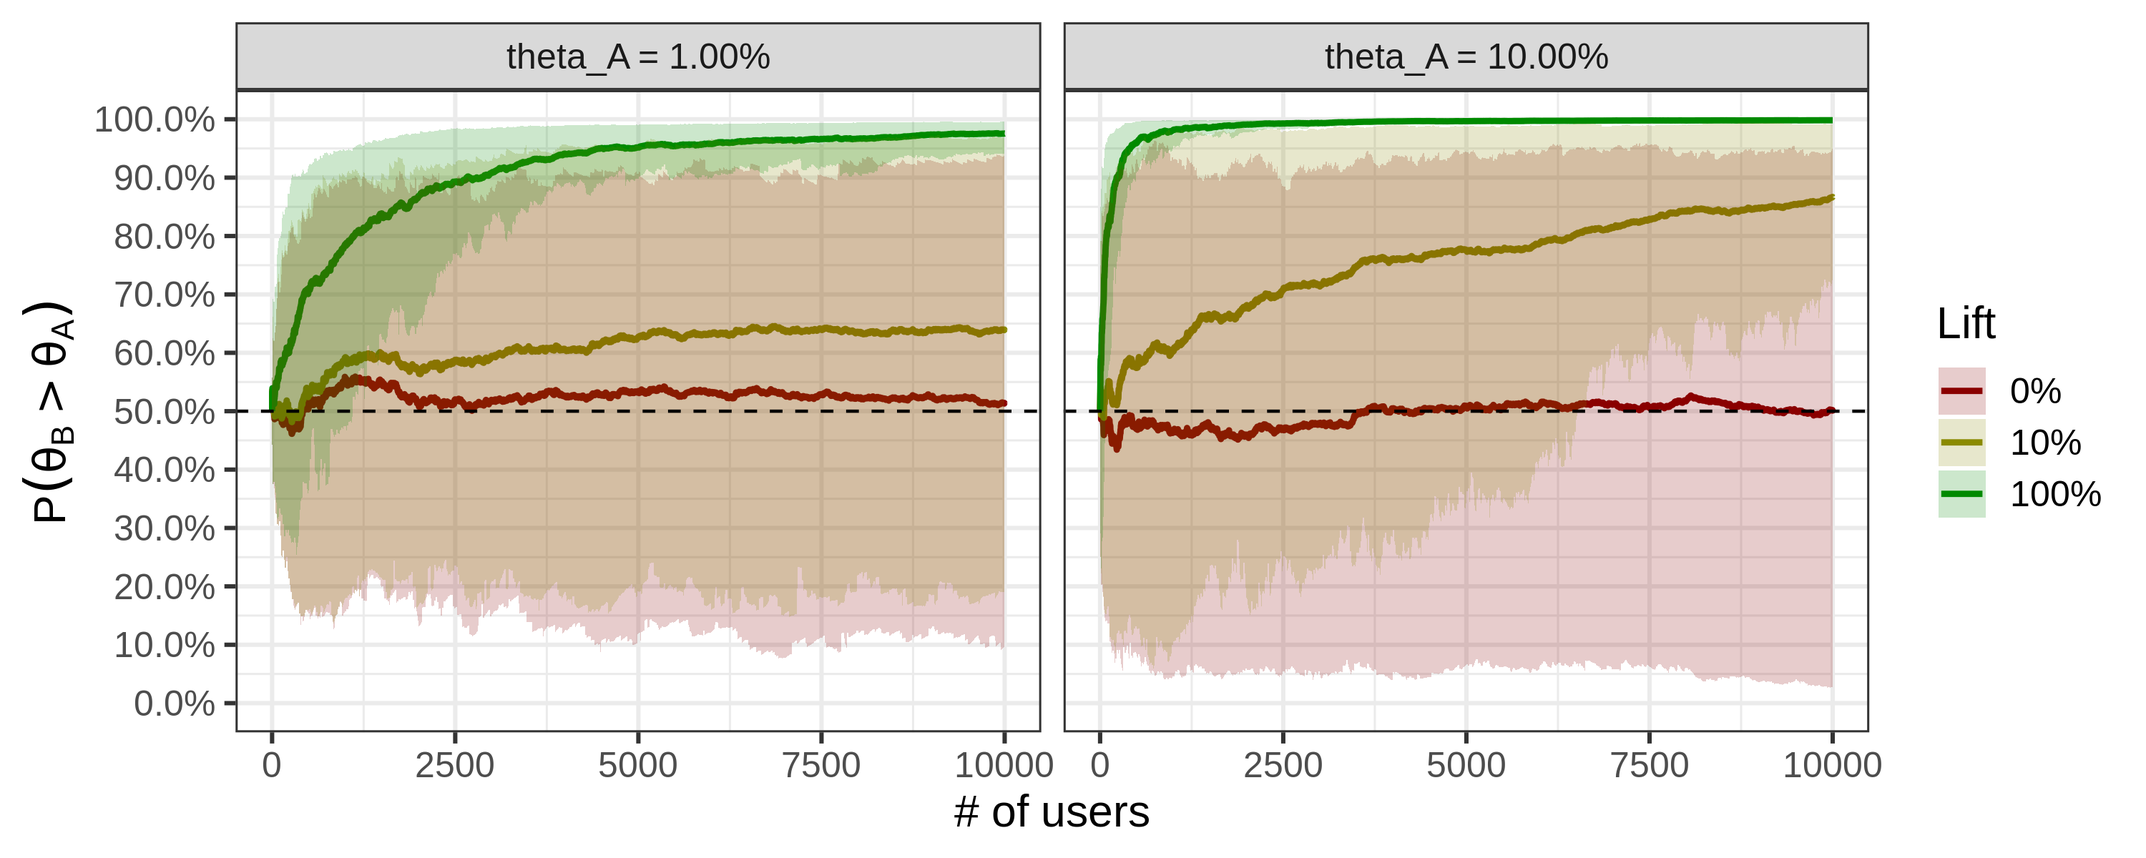
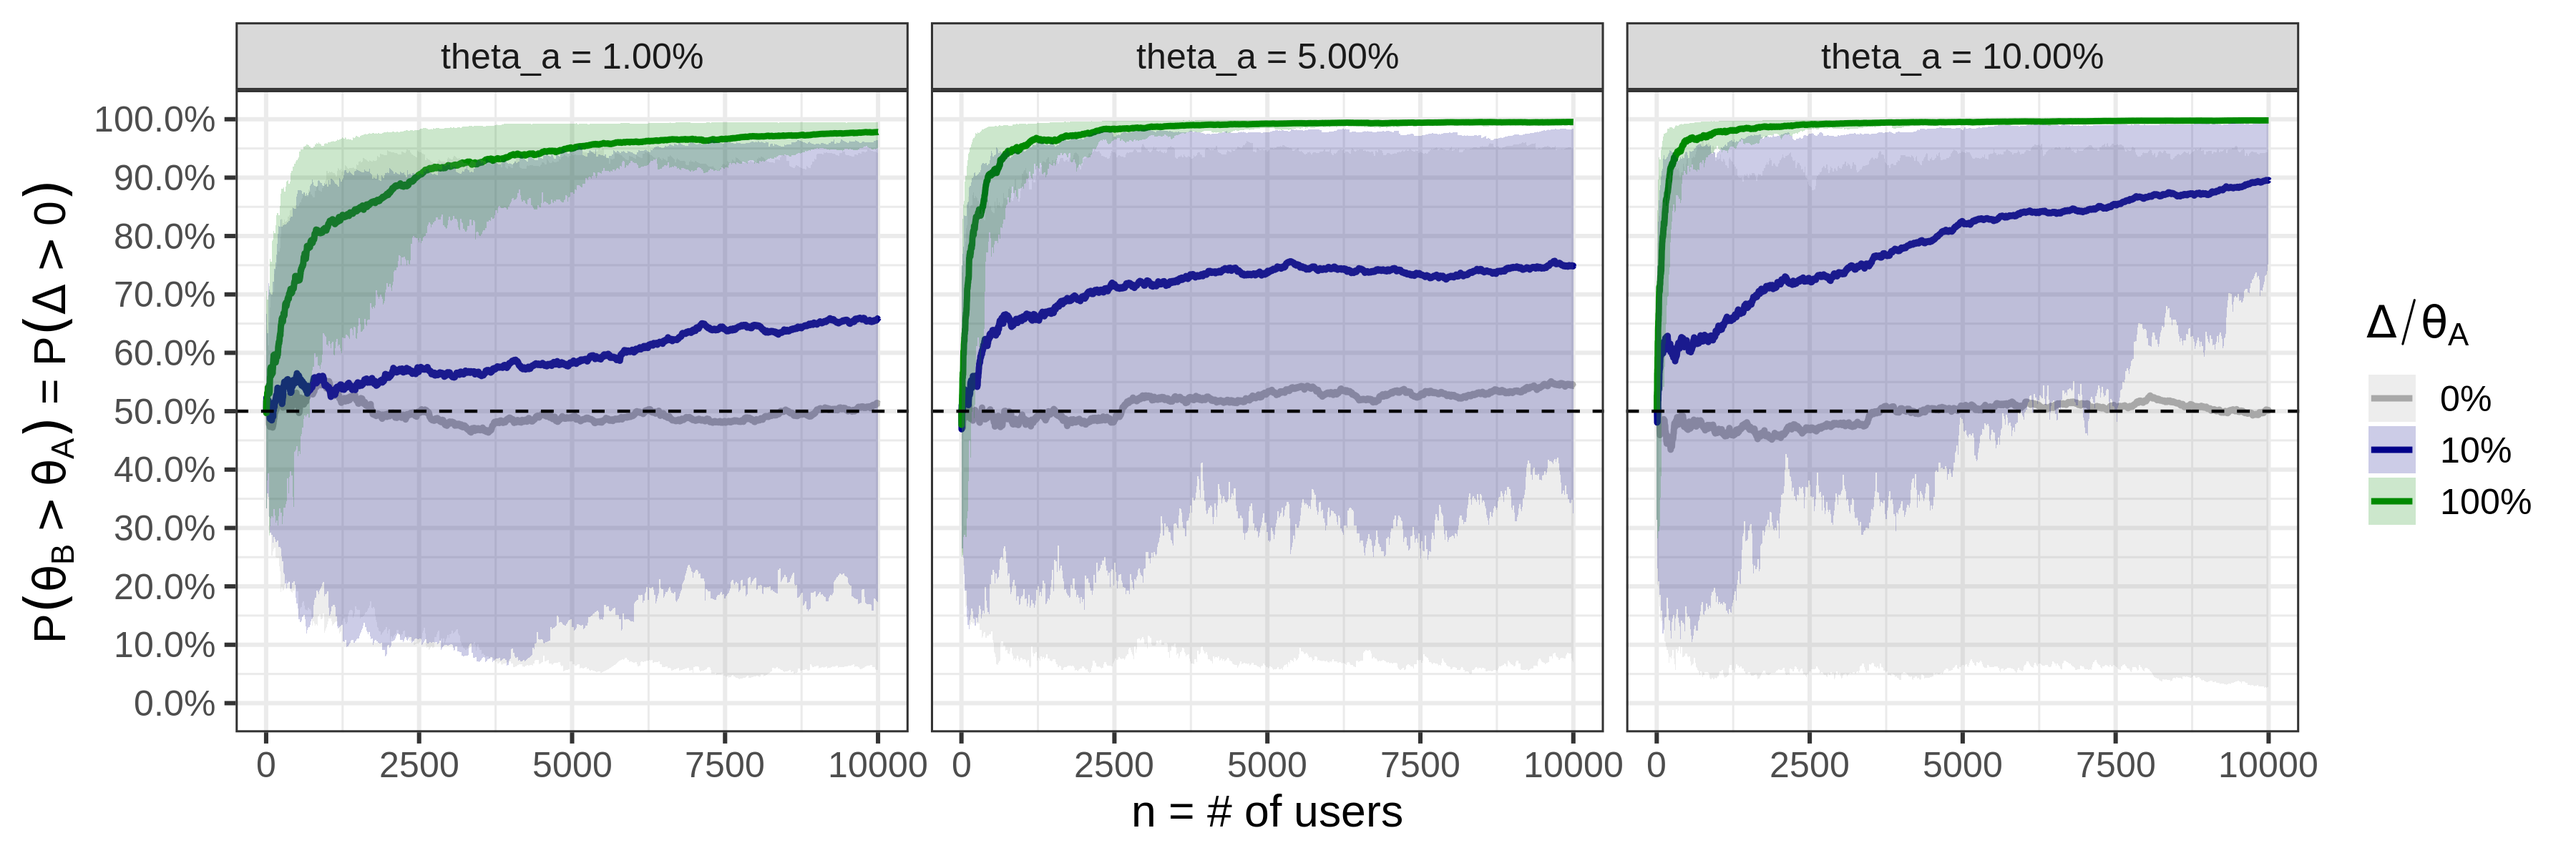
more progress on thompson-sampling

diff --git a/_layouts/post.html b/_layouts/post.html
@@ -1,5 +1,6 @@
 ---
 layout: default
+comments: true
 ---
 <article class="post h-entry" itemscope itemtype="http://schema.org/BlogPosting">
 

diff --git a/code/thompson-sampling/simulations.cpp b/code/thompson-sampling/simulations.cpp
@@ -18,7 +18,7 @@ List simulate(
   NumericVector p_B(users), aa(users), ba(users), ab(users), bb(users);
   aa[0] = alpha_a;
   ba[0] = beta_a;
-  ba[0] = alpha_b;
+  ab[0] = alpha_b;
   bb[0] = beta_b;
   bool is_positive_outcome = true;
   NumericVector u1 = runif(users), u2 = runif(users);
@@ -36,20 +36,20 @@ List simulate(
     }
     aa[i] = alpha_a;
     ba[i] = beta_a;
-    ba[i] = alpha_b;
+    ab[i] = alpha_b;
     bb[i] = beta_b;
   }
   
   return List::create(
+    Named("theta_a") = theta_a,
+    Named("theta_b") = theta_b,
     Named("universe") = universe,
     Named("nth_user") = seq(1, users),
     Named("b_is_better") = p_B,
     Named("alpha_a") = aa,
     Named("beta_a") = ba,
     Named("alpha_b") = ab,
-    Named("beta_b") = bb,
-    Named("theta_a") = theta_a,
-    Named("theta_b") = theta_b
+    Named("beta_b") = bb
   );
 }
 

diff --git a/_posts/2020-05-08-thompson-sampling.md b/_posts/2020-05-08-thompson-sampling.md
@@ -310,7 +310,7 @@ prob_B_is_better = function(alpha_a, beta_a, alpha_b, beta_b) {
 
 I've used the fact that the inner integral is just the
 [cumulative distribution
-function](https://en.wikipedia.org/wiki/Cumulative_distribution_function).
+function (CDF)](https://en.wikipedia.org/wiki/Cumulative_distribution_function).
 
 ## Simulations
 
@@ -326,94 +326,214 @@ of practical relevance:
 1. When to stop the experiment?
 1. How to estimate the lift $$\Delta = \theta_B - \theta_A$$?
 
-Intuitively, I want to stop as soon as I'm
-convinced by evidence that $$\Delta \neq 0$$.
+Well, I want to stop as soon as I'm
+convinced by evidence that $$\Delta$$ is probably not zero.
 
 More specifically,
 the knowledge distributions for $$\theta_A$$
 and $$\theta_B$$ imply a knowledge distribution
 for $$\Delta$$, say $$p_n(\Delta)$$.
-At any time, we can deduce
+Then, at any time, we can deduce
 [credible intervals](https://en.wikipedia.org/wiki/Credible_interval)
-for $$\Delta$$ from $$p_n(\Delta)$$.
-Here, I take the mean as the point estimate
-and the credible interval defined
-by the percentiles 10 and 90
-(i.e. a 80% credible interval)
-as the uncertainty estimate.
-Therefore, the answers for both questions
-can be merged into one single stopping rule like
+for $$\Delta$$.
+Here, I take the mean as the point estimate.
+For the uncertainty estimate, the credible intervals,
+the most common options are:
 
-- Stop as soon as the credible interval for $$\Delta$$
-doesn't contain 0 anymore, or
-- Stop as soon as the width of the credible interval
-for $$\Delta$$ becomes less than a threshold.
+- The so-called equal-tailed interval (ETI)
+is defined by the quantiles
+$$\alpha/2$$ and $$1-\alpha/2$$
+for a $$100\alpha\%$$ credible interval
+(e.g. if $$\alpha=80\%$$, then we use percentiles 10 and 90);
+- The
+[Highest Density Region (HDR)](https://www.webpages.uidaho.edu/~stevel/517/Computing%20and%20Graphing%20HDR.pdf),
+the subset of the support of a distribution
+that accumulates a specified probability mass,
+say $$\alpha$$,
+*and* have the highest possible values
+of the density function.
 
-On the other hand, we can assess the quality of such decisions
-by checking how often the timing matches
+The ETI equals the HDR in case the distribution is
+symmetric and unimodal.
+For skewed distributions, as is our case,
+the ETI may let values near the mode out of the interval
+while including values with lower associated density,
+and I want to avoid that property.
+The HDR certainly contains the mode,
+which is unique and very close to the mean in our case,
+so I'm going to use it.
 
-The scenarios we may encounter can be defined essentially
+In any case, the answers for questions 1 and 2
+can be merged into a single stopping rule like
+*"Stop as soon as the credible interval for $$\Delta$$
+doesn't contain 0"*,
+or
+*"Stop as soon as the width of the credible interval
+for $$\Delta$$ becomes less than a threshold"*,
+or a combination of these.
+
+The scenarios we may face can be defined essentially
 in terms of $$\theta$$.
 The cross product of
 
-1. The baseline rate of positive outcomes $$\theta_A$$
-   being 1% or 10%; and
-1. The relative lift $$\Delta/\theta_A$$
-   being 0%, 5% or 10%.
+- The baseline rate of positive outcomes $$\theta_A$$
+  being 1%, 5% or 10%; and
+- The relative lift $$\Delta/\theta_A$$
+  being 0%, 10% or 100%.
 
-amounts to 6 scenarios and these are the ones
+amounts to 9 scenarios and these are the ones
 I consider here.
 
-Now to the simulation. The
+**Now to the simulation.**
+First, I want to understand how
+$$P(\Delta > 0) = P(\theta_B > \theta_A)$$
+behaves under different conditions.
+The
 [generative model](https://en.wikipedia.org/wiki/Generative_model)
-of our problem looks like this:
+for user outcomes and the algorithm
+we devised in the previous section put together
+look like the following.
+We start with uniform priors, i.e.
+$$\alpha_A = \beta_A = \alpha_B = \beta_B = 1$$.
+Then, for each new user $$n \geq 1$$:
 
-- Start with uniform priors, i.e.
-$$\alpha_A = \beta_A = \alpha_B = \beta_B = 1$$;
-- For each new user $$n \geq 1$$:
-  - **Thompson Sampling**: Compute
-    $$P(\theta_B > \theta_A)$$
-    and sample the variation based on it;
-  - Sample the (binary) user outcome using
-    $$\theta_A$$ or $$\theta_B$$,
-    depending on the previous step,
-    and update the hyper-parameters,
-    increasing $$\alpha$$ or $$\beta$$ in 1
-    depending on whether the experience was
-    positive or negative, respectively.
+1. *Thompson Sampling*: Compute
+   $$P(\theta_B > \theta_A)$$
+   and sample the variation based on it;
+1. Sample the (binary) user outcome using
+   $$\theta_A$$ or $$\theta_B$$,
+   depending on the previous step;
+1. Update the hyper-parameters of the sampled variation,
+   increasing $$\alpha$$ or $$\beta$$ in 1
+   depending on whether the experience was
+   positive or negative, respectively.
 
 Notice that I'm updating the distributions
 right after observing the outcome
 of each user. In practice, that may not
 be feasible. Updates could be executed
-after counting results for batches of users.
+after counting results from batches of users.
 
 I've used a total of 10K users and repeated this whole
-process 100 times, resulting in 1M simulated user experiences.
-For each scenario we can now visualize
-the average (dense line) + 80% confidence intervals (shadows)
-of the $$P(\theta_B > \theta_A)$$
+process 100 times, resulting in 1M simulated user experiences
+for each scenario.
+Now, we can visualize, say,
+the average (dense line) + 80% ETI (shadows)
+of the $$P(\Delta > 0)$$
 values across the 100 histories as a function
-of the number of users, $$n$$.
+of the number of users, $$n$$,
+for each scenario.
 
-![]({{site.baseurl}}/images/thompson-sampling/simple-scenarios.png)
-
-First few notes:
-
-- For the same relative lift, it's easier to
-detect an existing difference if the rates
-are bigger. That's just because the absolute value
-of the lift is also bigger in this case.
-- To compare absolute lifts
-
-Amunsingly, this is a
+> Amusingly, this is a
 [frequentist](https://en.wikipedia.org/wiki/Probability_interpretations#Frequentism)
 analysis of subjective probabilities.
-These are not bayesian estimates.
-We're assessing in a simple manner how our
+Note that these are not bayesian estimates.
+The uncertainty measured by these intervals
+are with respect to the unobserved, alternative histories
+that are possible according to our generative model.
+I want to assess in a simple manner how my
 perception of the reality at a certain point
 in time may deviate from the actual
 underlying reality itself.
+In a minute, we're going to take a closer look
+into the knowledge distribution for $$\Delta$$,
+which is the only thing we have in practice
+to both (1) measure uncertainty and (2) make decisions.
+
+![]({{site.baseurl}}/images/thompson-sampling/simple-scenarios.png)
+
+- As expected, the greater the lift the easier to catch
+the difference sooner;
+- For a fixed (relative) lift, it's easier to
+detect an existing difference if the rates
+are bigger. That's just because the absolute value
+of the lift, $$\theta_B - \theta_A$$, is also bigger in such cases.
+- Under no lift, it looks like the $$P(\theta_B > \theta_A)$$
+time series may drift up and down with no signs of convergence.
+Notice the wide confidence intervals irrespectively of $$\theta_A$$ and $$n$$.
+- Both the green curve in the first pane and
+the blue curve in the third pane correspond to $$\Delta = 0.01$$:
+notice the difference in how easy it is to catch the lift.
+
+**Now let's move to the distribution of $$\Delta$$**.
+Since $$\Delta = \theta_B - \theta_A$$, we have
+
+$$\begin{align}
+p_n(\Delta)
+&= \int_0^1 p_{n,B}(\Delta + \theta) p_{n,A}(\theta) d\theta \\
+&= \frac{\int_0^1 (\Delta+\theta)^{\alpha_B-1} (1-\Delta-\theta)^{\beta_B-1}
+\theta^{\alpha_A-1} (1-\theta)^{\beta_A - 1} d\theta}
+{B(\alpha_A, \beta_A) B(\alpha_B, \beta_B)}.
+\end{align}$$
+
+You can check the closed form solution to the integral
+[here](https://www.terrapub.co.jp/journals/jjss/pdf/4002/40020265.pdf).
+It depends on the
+[Appell hypergeometric function](https://en.wikipedia.org/wiki/Appell_series)
+$$F_3$$, and it's kinda hard to compute it.
+Since I didn't find code to do so,
+I'll resort to numerically dealing with the above expression.
+
+In the simulations, I record the most up-to-date values of
+the hyper-parameters (`universe` counts the 100
+replications and `b_is_better` is $$P(\Delta > 0)$$):
+
+```
+# A tibble: 9,000,000 x 9
+   theta_a theta_b universe nth_user b_is_better alpha_a beta_a alpha_b beta_b
+     <dbl>   <dbl>    <int>    <int>       <dbl>   <int>  <int>   <int>  <int>
+ 1     0.1     0.1        1        1       0.5         1      1       2      1
+ 2     0.1     0.1        1        2       0.667       1      1       2      2
+ 3     0.1     0.1        1        3       0.5         1      2       2      2
+ 4     0.1     0.1        1        4       0.7         1      3       2      2
+ 5     0.1     0.1        1        5       0.8         1      3       3      2
+ 6     0.1     0.1        1        6       0.886       1      4       3      2
+ 7     0.1     0.1        1        7       0.929       1      5       3      2
+ 8     0.1     0.1        1        8       0.952       1      5       3      3
+ 9     0.1     0.1        1        9       0.917       1      5       3      4
+10     0.1     0.1        1       10       0.879       1      5       4      4
+# … with 8,999,990 more rows
+```
+
+I discovered
+[here](https://stackoverflow.com/a/42987104/6152355)
+a piece of code from
+[this](https://sites.google.com/site/doingbayesiandataanalysis/software-installation)
+book to compute the HDRs for single mode distributions (our case)
+given a quantile function (the inverse of the CDF) and $$\alpha$$,
+the probability of the credible interval.
+The CDF of $$\Delta$$
+(remark the support of $$\Delta$$ is $$(-1,1)$$)
+is
+
+$$
+\Delta \mapsto \int_{-1}^\Delta p_n(t) dt
+$$
+
+and since we know it's monotonically non-decreasing
+we can easily compute its
+[inverse](https://stackoverflow.com/a/10081571/6152355)
+on-demand via standard root-finding numerical methods,
+like Newton's. Here's some R code to do that:
+
+```r
+delta_pdf = function(d, alpha_a, beta_a, alpha_b, beta_b) {
+  integrate(function(theta) {
+    dbeta(d + theta, alpha_b, beta_b) * dbeta(theta, alpha_a, beta_a)
+  }, lower = 0, upper = 1)$value
+}
+
+delta_cdf = function(d, alpha_a, beta_a, alpha_b, beta_b) {
+  integrate(Vectorize(delta_pdf), lower = -1, upper = d,
+            alpha_a = alpha_a, beta_a = beta_a,
+            alpha_b = alpha_b, beta_b = beta_b)$value
+}
+
+delta_icdf = function(p, alpha_a, beta_a, alpha_b, beta_b) {
+  uniroot(function(d) delta_cdf(d, alpha_a, beta_a, alpha_b, beta_b) - p,
+          interval = c(-1, 1))$root
+}
+```
 
 ## The impact of better priors
 
